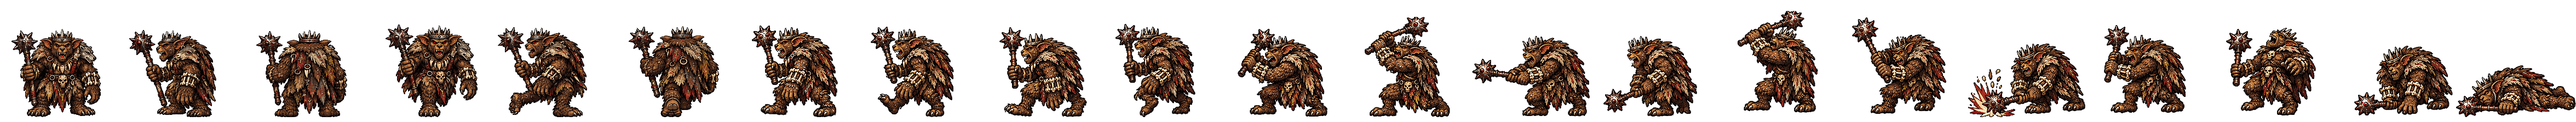
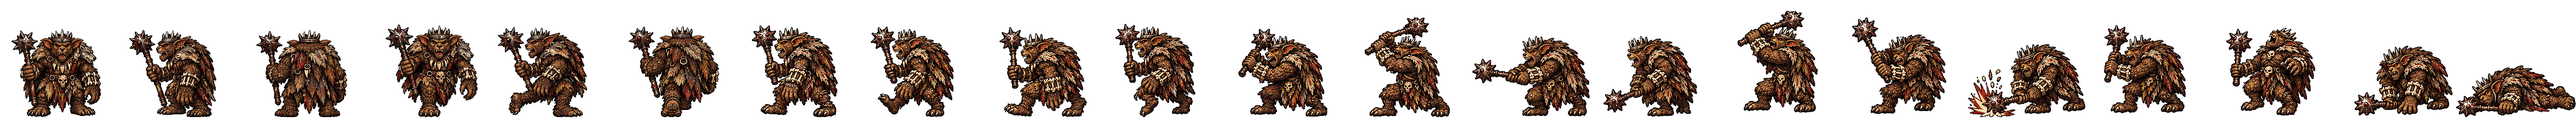
Cripta: orc, hobgoblin, gnoll e o dragão vermelho com a arte gerada por IA
Parte 3 de 4 das folhas da Cripta: orc guerreiro, hobgoblin capitão, gnoll e o
dragão jovem, com andar, golpe, especial e morte desenhados.

- O dragão vem vermelho, como a regra do jogo (Sopro Infernal, imune a fogo):
  troca o dragão verde desenhado por código. O sopro toca o leque de fogo do
  especial; o Voo sai do golpe (decolagem e mergulho da folha ficam guardados).
- criptaSprites.py: aceita várias linhas a mais na folha B (frenesi do gnoll,
  decolagem e mergulho do dragão) e trata como fundo a mancha de branco puro de
  poucos pixels (entre a asa e o corpo do dragão, no ombro do hobgoblin). Os 13
  monstros foram refeitos com a regra nova; a teia da aranha continua.
- Os 13 com folha somam ~40 MB, mas a hunt só prepara os do mapa dela.

Claude-Session: https://claude.ai/code/session_017wBqbJR4XfzfKEbvngNmdx

Changed region(s): [[0.4688, 0.1562, 0.5625, 0.9375], [0.875, 0.25, 0.9062, 0.9375], [0.75, 0.375, 0.8125, 0.9062]]

diff --git a/apps/client/src/art/bestiary.ts b/apps/client/src/art/bestiary.ts
@@ -291,8 +291,9 @@ if (protoCrypt) {
         size: crypt.size, sheet: () => crypt.sheet(), portrait: () => crypt.portrait(), outline: "",
         fps: { idle: 4, walk: 8, attack: 10, cast: 7 }, frames: { idle: 4, walk: 4, attack: 4, cast: 4 }, stride: 2,
         hd: () => crypt.frames(), fill: crypt.fill, extra: { ...crypt.extra },
-        // A teia da aranha é o especial desenhado; sem habilidade, o especial fica guardado para quando houver.
-        strike: "cast",
+        // A habilidade toca o especial desenhado (a teia, o Golpe Brutal, o Engolfar, a investida do orc, o sopro); o
+        // Voo do dragão, que não tem especial próprio na folha, sai do golpe.
+        strike: kind === "dragon" ? { breath: "cast", flight: "attack" } : "cast",
       },
     };
   }

diff --git a/apps/client/scripts/criptaSprites.py b/apps/client/scripts/criptaSprites.py
@@ -52,6 +52,10 @@ HEIGHT = {
     "skeletonArcher": 125,
     "bugbear": 160,
     "gelatinousCube": 130,
+    "orc": 130,
+    "hobgoblin": 135,
+    "gnoll": 140,
+    "dragon": 250,
 }
 
 # Quem voa: a figura vai com o próprio pé na linha em toda folha (não cai até o chão na morte).
@@ -61,10 +65,11 @@ FLYERS = {"stirge"}
 USED = (0, 2, 4, 6, 8, 10)
 # Linhas da folha B e quantas figuras cada uma tem.
 B_ROWS = (4, 4, 4, 3)
-# Linha a mais na folha B de alguns (a emboscada do Bugbear, a cuspida do Cubo): o jogo ainda não tem clipe para ela,
-# então ela é lida (para as outras saírem certas) e fica de fora.
-B_EXTRA_ROW = {"bugbear": 4, "gelatinousCube": 3}
+# Linhas a mais na folha B de alguns (a emboscada do Bugbear, a cuspida do Cubo, o frenesi do Gnoll, a decolagem e o
+# mergulho do Dragão): o jogo ainda não tem clipe para elas, então são lidas (para as outras saírem certas) e ficam de fora.
+B_EXTRA_ROWS = {"bugbear": (4,), "gelatinousCube": (3,), "gnoll": (4,), "dragon": (4, 4)}
 HOLE = 60  # células de 2x2 px: claro sem cor desse tamanho para cima, cercado pela figura, é fundo
+SPECK = 6  # células de 2x2 px: branco puro desse tamanho para cima é fundo, mesmo pequeno
 
 
 def clean(path):
@@ -83,6 +88,14 @@ def clean(path):
     clear_small = clear[: h * k, : w * k].reshape(h, k, w, k).any(axis=(1, 3))
     sizes = np.bincount(label.ravel())
     keep = set(np.unique(label[clear_small])) | {i for i in range(1, len(sizes)) if sizes[i] >= HOLE}
+    # Branco puro (o fundo que sobrou) já é fundo em mancha pequena: entre a asa e o corpo do dragão, no ombro do
+    # hobgoblin. O brilho de dente e olho é menor que `SPECK` ou não é branco puro.
+    pure = (lo >= 244) & (hi - lo <= 8)
+    pure_small = pure[: h * k, : w * k].reshape(h, k, w, k).all(axis=(1, 3))
+    plabel, _ = components(pure_small)
+    psizes = np.bincount(plabel.ravel())
+    pure_bg = np.isin(plabel, [i for i in range(1, len(psizes)) if psizes[i] >= SPECK])
+    keep |= set(np.unique(label[pure_bg]))
     keep |= set(np.unique(np.concatenate([label[0], label[-1], label[:, 0], label[:, -1]])))
     keep.discard(0)
     bg = np.zeros_like(cand)
@@ -152,7 +165,7 @@ def main(kind, flip_figs=()):
     rows_a = figures(a)
     assert [len(r) for r in rows_a] == [6, 6], f"{kind}-A: esperava 2 linhas de 6, achei {[len(r) for r in rows_a]}"
     b = clean(SRC / f"{kind}-B.webp")
-    expected = B_ROWS + ((B_EXTRA_ROW[kind],) if kind in B_EXTRA_ROW else ())
+    expected = B_ROWS + B_EXTRA_ROWS.get(kind, ())
     rows_b = merge_loose(figures(b), expected)
     assert tuple(len(r) for r in rows_b) == expected, f"{kind}-B: esperava linhas {expected}, achei {[len(r) for r in rows_b]}"
     rows_b = rows_b[: len(B_ROWS)]

diff --git a/docs/arte/cripta/README.md b/docs/arte/cripta/README.md
@@ -6,7 +6,7 @@ guardadas aqui em WebP sem perda (os mesmos pixels do PNG, metade do tamanho):
 - `<kind>-A.webp` (giro): 2 linhas × 6, parado e andando; colunas: frente, 3/4 de frente, perfil para a esquerda,
   3/4 de costas, costas, 3/4 de costas para a direita.
 - `<kind>-B.webp` (ação): 4 linhas × 4, tudo de perfil para a esquerda: andar (4), golpe (4), especial (4) e morte (3).
-  Alguns têm uma 5ª linha (`B_EXTRA_ROW` no script): ela é lida e fica de fora até o jogo ter clipe para ela.
+  Alguns têm linhas a mais (`B_EXTRA_ROWS` no script): são lidas e ficam de fora até o jogo ter clipe para elas.
 
 Processadas por `apps/client/scripts/criptaSprites.py <kind>`, que grava `apps/client/src/art/proto/cripta/<kind>.png`
 (21 figuras: as 6 da A que o jogo usa e as 15 da B, paleta de 256 cores). O jogo pega sozinho todo PNG daquela pasta
@@ -24,12 +24,17 @@ o desenho por código. Diferente do Kosaradius, aqui o andar, o golpe, o especia
 | Esqueleto arqueiro (`skeletonArcher`) | A e B | 176 px | ~2,5 MB | |
 | Bugbear chefe (`bugbear`) | A e B | 224 px | ~4,0 MB | substitui a arte de referência; o especial é o Golpe Brutal; a 5ª linha (emboscada) fica de fora |
 | Cubo Gelatinoso (`gelatinousCube`) | A e B | 176 px | ~2,5 MB | o especial é o Engolfar; a 5ª linha (cuspida) fica de fora |
+| Orc guerreiro (`orc`) | A e B | 176 px | ~2,5 MB | o especial é a investida (Agressivo) |
+| Hobgoblin capitão (`hobgoblin`) | A e B | 192 px | ~3,0 MB | |
+| Gnoll (`gnoll`) | A e B | 192 px | ~3,0 MB | a 5ª linha (ataque em frenesi) fica de fora |
+| Dragão jovem (`dragon`) | A e B | 352 px | ~9,9 MB | vermelho, como a regra do jogo (troca o verde por código); o especial é o Sopro Infernal e o Voo usa o golpe; decolagem e mergulho ficam de fora |
 
 ## O que o script corrige sozinho
 
 - **Fundo:** o claro sem cor que encosta no transparente (ou forma um buraco grande dentro da figura) vira
   transparência. Pega o branco entre ossos e pernas e o xadrez pintado; o branco pequeno (dentes, brilho) e a teia
   (com cor) ficam.
+- **Branco puro:** a mancha branca pura de poucos pixels (entre a asa e o corpo do dragão) também é fundo (`SPECK`).
 - **Peça solta:** se uma figura da B se parte em duas linhas (a caveira voando), a peça vai para a figura mais perto.
 - **Escala:** a altura do perfil parado da A é `HEIGHT` do monstro (o tamanho de hoje no jogo); a B vai para a escala
   da A pela área do andar de perfil (a altura engana: cauda curvada, asas).
@@ -38,4 +43,4 @@ o desenho por código. Diferente do Kosaradius, aqui o andar, o golpe, o especia
 ## Memória no celular
 
 Só os monstros do mapa da hunt são preparados (`warmMapMonsters` em `textures.ts`). Cada monstro tem 21 figuras
-distintas: figuras × lado² × 4 bytes. Os 9 acima somam ~22 MB.
+distintas: figuras × lado² × 4 bytes. Os 13 acima somam ~40 MB, mas a hunt só prepara os do mapa dela.

diff --git a/docs/ARTE_TIBIA.md b/docs/ARTE_TIBIA.md
@@ -289,7 +289,8 @@ antes de fazer os outros 3 cenários. Tudo atrás da opção **Arte nova (beta)*
 **Inimigos da Cripta com folhas geradas por IA** (`docs/arte/cripta/README.md`): o monstro que tem folha A (giro) e
 B (andar, golpe, especial e morte desenhados) troca o desenho por código pela folha, em todo mapa em que aparece
 (`criptaSprites.py` recorta, `art/proto/criptaArt.ts` monta os clipes). Já com folha: ratazana, kobold, estirge,
-esqueleto, aranha gigante, goblin arqueiro, esqueleto arqueiro, Bugbear chefe e Cubo Gelatinoso.
+esqueleto, aranha gigante, goblin arqueiro, esqueleto arqueiro, Bugbear chefe, Cubo Gelatinoso, orc guerreiro,
+hobgoblin capitão, gnoll e o dragão jovem (vermelho, como a regra; o verde por código saiu de cena).
 
 ### Goblin a partir de arte de referência
 
